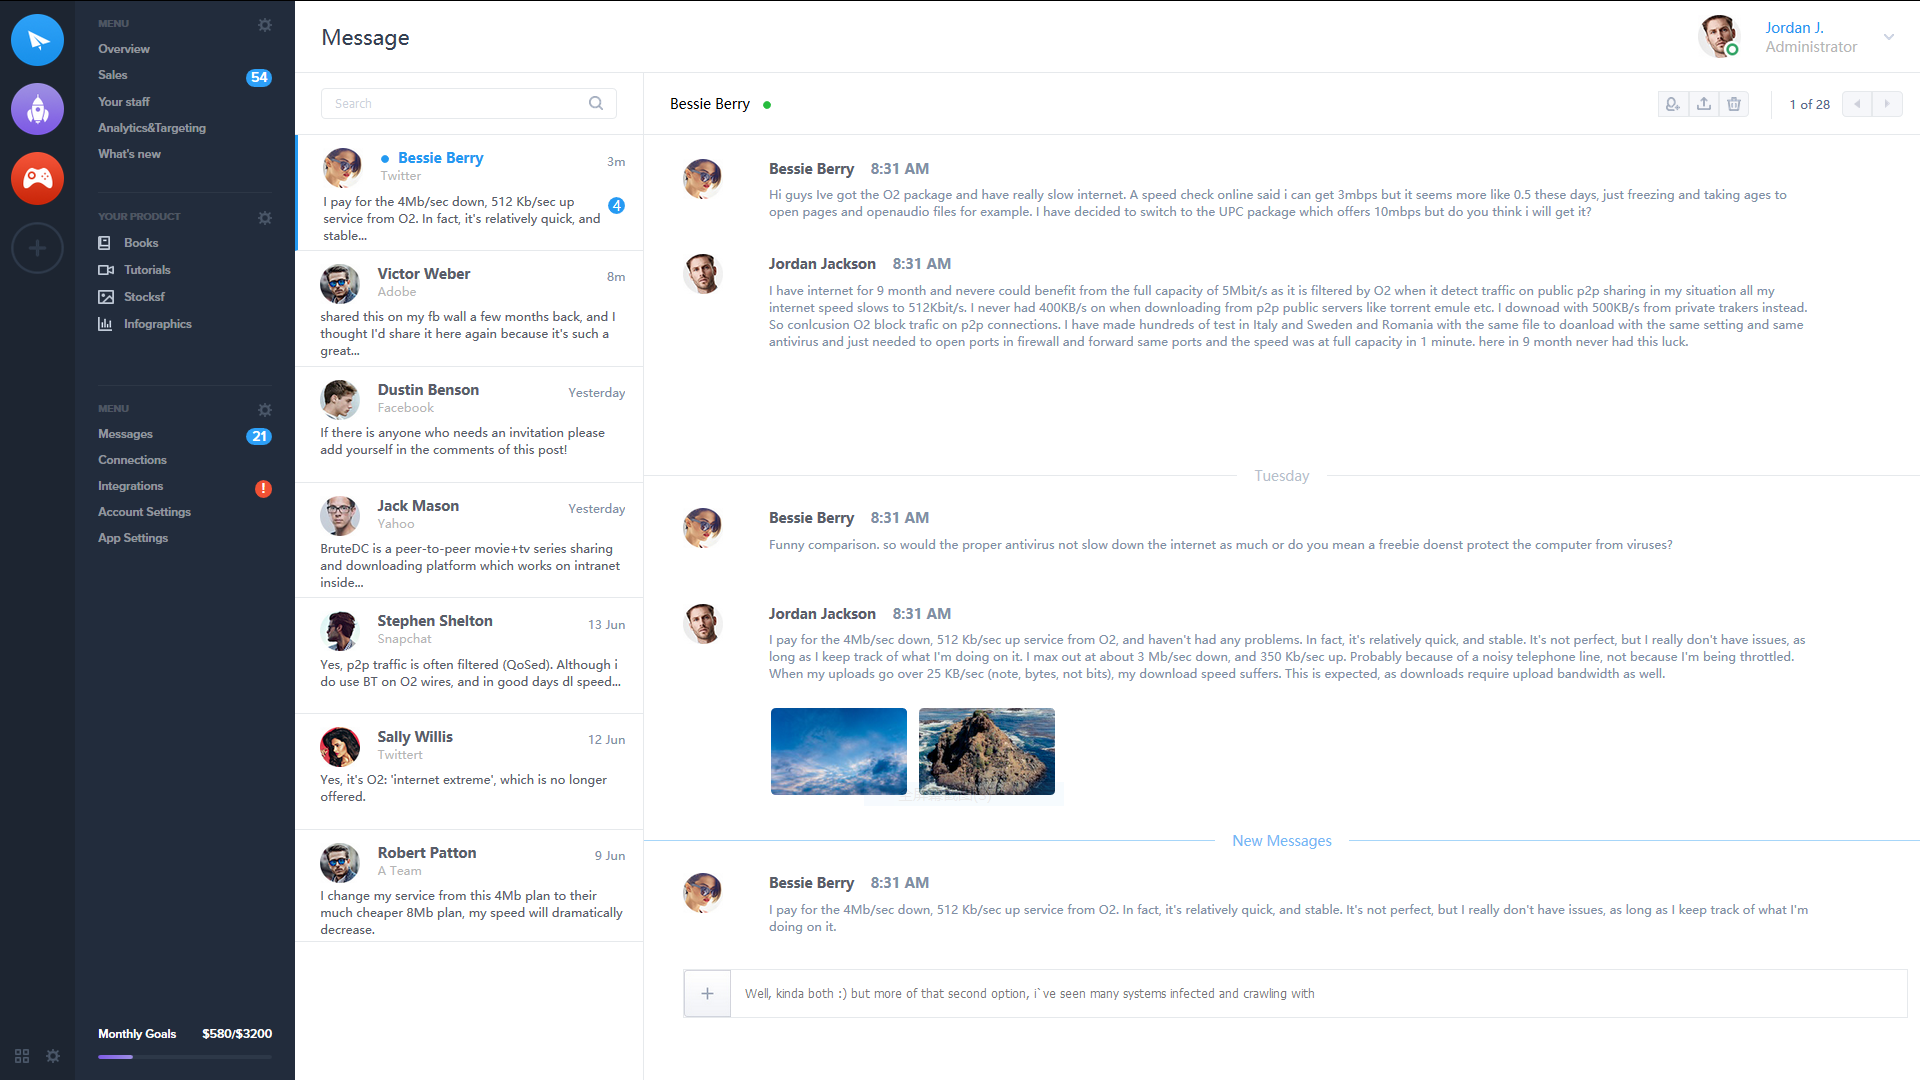
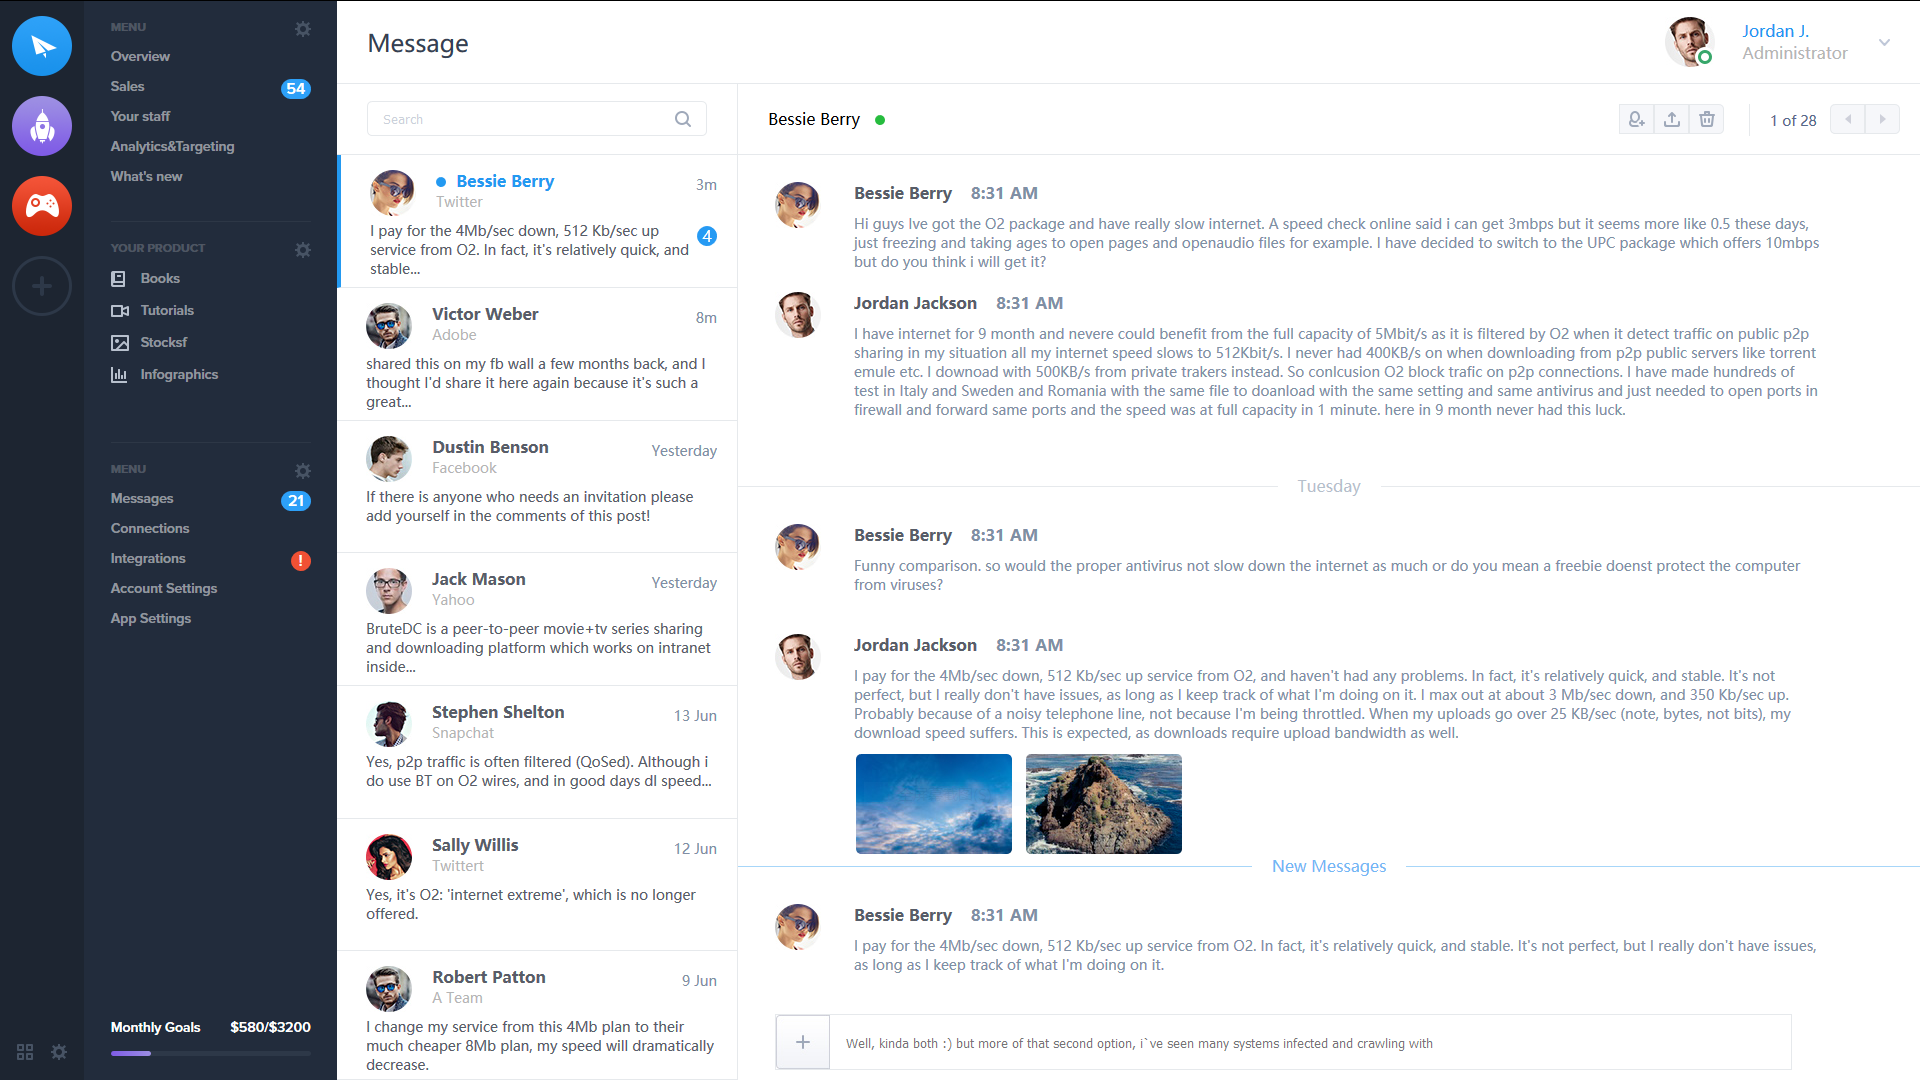
修改

diff --git a/Day12/css/style.css b/Day12/css/style.css
@@ -385,7 +385,7 @@ section{
     color:#585d68;
 }
 .today{
-    max-height:380px;
+    max-height:320px;
     flex-grow: 1;
 }
 .bessie{
@@ -422,7 +422,7 @@ section{
     color: #B6BFCB;
 }
 .tuesday{
-    max-height: 420px;
+    max-height: 380px;
     flex-grow: 1;
 }
 .tuesday .jackson{
@@ -477,7 +477,7 @@ section{
     color: #73B7F5;
 }
 .new input{
-    width:91%;
+    width:85%;
     height:54px;
     border:1px solid #E6E9EC;
     margin-left:3.1%;
